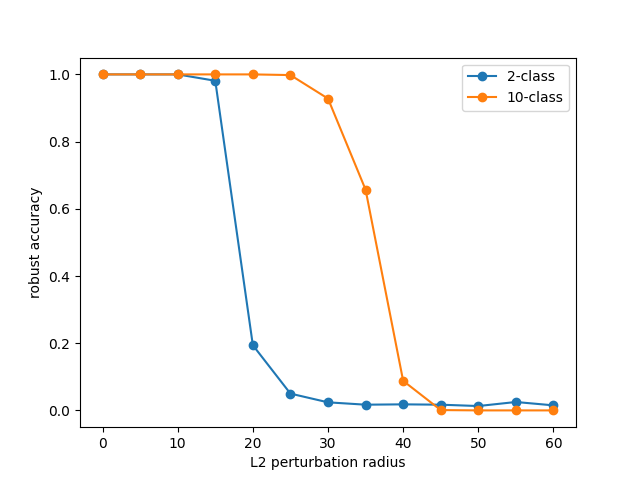
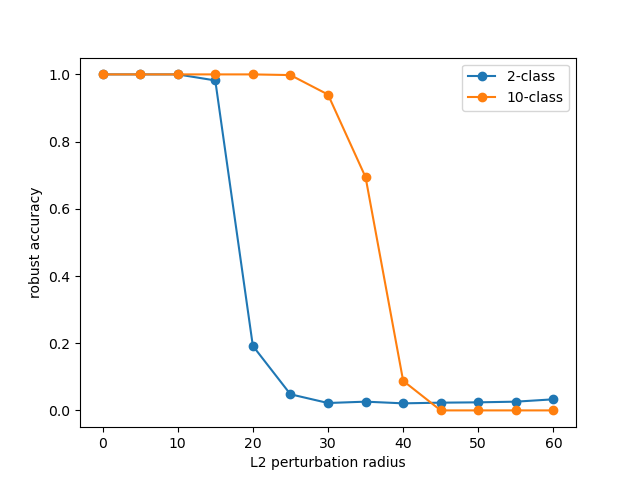
fix attack parameters to match Madry et al. as stated in the paper

diff --git a/attack_mnist.py b/attack_mnist.py
@@ -11,7 +11,8 @@ def pgd_l2(model, x, y, epsilon, alpha, steps):
     """Standard L2 PGD (Madry et al.): maximize CE(model(x+delta), y) within an L2 ball.
 
     Attacks each model on its native training loss with its training-time label
-    (digit for the 10-class model, parity for the 2-class model).
+    (digit for the 10-class model, parity for the 2-class model). After each
+    step, perturbed inputs are clipped to the [0, 1] image range.
     """
     if epsilon == 0:
         return x
@@ -19,6 +20,7 @@ def pgd_l2(model, x, y, epsilon, alpha, steps):
     norm = delta.flatten(1).norm(dim=1).view(-1, 1, 1, 1).clamp(min=1e-12)
     delta = delta / norm
     delta = (delta * epsilon * torch.rand(x.size(0), 1, 1, 1, device=x.device)).detach()
+    delta = ((x + delta).clamp(0, 1) - x).detach()      # keep x+delta in [0,1]
     for _ in range(steps):
         delta.requires_grad_(True)
         loss = F.cross_entropy(model(x + delta), y, reduction="sum")
@@ -28,11 +30,12 @@ def pgd_l2(model, x, y, epsilon, alpha, steps):
             delta = delta + alpha * grad / g_norm
             d_norm = delta.flatten(1).norm(dim=1).view(-1, 1, 1, 1).clamp(min=1e-12)
             delta = delta * (epsilon / d_norm).clamp(max=1.0)
+            delta = (x + delta).clamp(0, 1) - x          # keep x+delta in [0,1]
             delta = delta.detach()
     return (x + delta).detach()
 
 
-def robust_accuracy_2class(model, loader, device, epsilon, steps=20):
+def robust_accuracy_2class(model, loader, device, epsilon, steps=40):
     """Attack on CE(parity), evaluate parity via argmax."""
     alpha = epsilon * 2.5 / steps if epsilon > 0 else 0.0
     correct, total = 0, 0
@@ -47,7 +50,7 @@ def robust_accuracy_2class(model, loader, device, epsilon, steps=20):
     return correct / total
 
 
-def robust_accuracy_10class(model, loader, device, epsilon, signs, steps=20):
+def robust_accuracy_10class(model, loader, device, epsilon, signs, steps=40):
     """Attack on CE(digit), evaluate parity via sgn(sum_signs · logits)."""
     alpha = epsilon * 2.5 / steps if epsilon > 0 else 0.0
     correct, total = 0, 0
@@ -103,7 +106,7 @@ def main():
             "acc_10class": acc_10,
             "test_seed": 42,
             "test_n": 1000,
-            "pgd_steps": 20,
+            "pgd_steps": 40,
         },
         "checkpoints/mnist_robust_results.pt",
     )

diff --git a/attack_cifar.py b/attack_cifar.py
@@ -12,6 +12,7 @@ def pgd_l2(model, x, y, epsilon, alpha, steps):
 
     Attacks each model on its native training loss with its training-time label
     (original 10-class label for the 10-class model, binary label for the 2-class model).
+    After each step, perturbed inputs are clipped to the [0, 1] image range.
     """
     if epsilon == 0:
         return x
@@ -19,6 +20,7 @@ def pgd_l2(model, x, y, epsilon, alpha, steps):
     norm = delta.flatten(1).norm(dim=1).view(-1, 1, 1, 1).clamp(min=1e-12)
     delta = delta / norm
     delta = (delta * epsilon * torch.rand(x.size(0), 1, 1, 1, device=x.device)).detach()
+    delta = ((x + delta).clamp(0, 1) - x).detach()      # keep x+delta in [0,1]
     for _ in range(steps):
         delta.requires_grad_(True)
         loss = F.cross_entropy(model(x + delta), y, reduction="sum")
@@ -28,11 +30,12 @@ def pgd_l2(model, x, y, epsilon, alpha, steps):
             delta = delta + alpha * grad / g_norm
             d_norm = delta.flatten(1).norm(dim=1).view(-1, 1, 1, 1).clamp(min=1e-12)
             delta = delta * (epsilon / d_norm).clamp(max=1.0)
+            delta = (x + delta).clamp(0, 1) - x          # keep x+delta in [0,1]
             delta = delta.detach()
     return (x + delta).detach()
 
 
-def robust_accuracy_2class(model, loader, device, epsilon, steps=20):
+def robust_accuracy_2class(model, loader, device, epsilon, steps=40):
     """Attack on CE(binary), evaluate binary via argmax."""
     alpha = epsilon * 2.5 / steps if epsilon > 0 else 0.0
     correct, total = 0, 0
@@ -47,7 +50,7 @@ def robust_accuracy_2class(model, loader, device, epsilon, steps=20):
     return correct / total
 
 
-def robust_accuracy_10class(model, loader, device, epsilon, signs, steps=20):
+def robust_accuracy_10class(model, loader, device, epsilon, signs, steps=40):
     """Attack on CE(10-class), evaluate binary via sgn(sum_signs · logits)."""
     alpha = epsilon * 2.5 / steps if epsilon > 0 else 0.0
     correct, total = 0, 0
@@ -103,7 +106,7 @@ def main():
             "acc_10class": acc_10,
             "test_seed": 42,
             "test_n": 1000,
-            "pgd_steps": 20,
+            "pgd_steps": 40,
         },
         "checkpoints/cifar_robust_results.pt",
     )

diff --git a/attack.py b/attack.py
@@ -27,7 +27,7 @@ def pgd_l2(forward_fn, x, y, epsilon, alpha, steps):
     return (x + delta).detach()
 
 
-def robust_accuracy(forward_fn, x, y, epsilon, steps=20):
+def robust_accuracy(forward_fn, x, y, epsilon, steps=40):
     """Fraction of points still correctly classified after a PGD-L2 attack of radius epsilon."""
     alpha = epsilon * 2.5 / steps if epsilon > 0 else 0.0
     x_adv = pgd_l2(forward_fn, x, y, epsilon, alpha, steps)
@@ -83,7 +83,7 @@ torch.save(
         "acc_10class": acc_multi,
         "test_seed": 42,
         "test_n": 1000,
-        "pgd_steps": 20,
+        "pgd_steps": 40,
     },
     "checkpoints/robust_results.pt",
 )